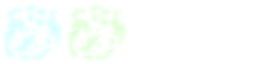
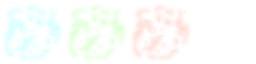
ADD Fire attack level 3

diff --git a/src/EffectZoneEntity.cpp b/src/EffectZoneEntity.cpp
@@ -1,5 +1,6 @@
 #include "EffectZoneEntity.h"
 #include "BaseCreatureEntity.h"
+#include "ExplosionEntity.h"
 #include "sfml_game/ImageManager.h"
 #include "sfml_game/SoundManager.h"
 #include "sfml_game/SpriteEntity.h"
@@ -9,7 +10,7 @@
 #include <iostream>
 
 EffectZoneEntity::EffectZoneEntity(float x, float y, bool fromPlayer, float duration,
-                     EffectZoneTypeEnum effectZoneType)
+                     EffectZoneTypeEnum effectZoneType, int damage)
   : SpriteEntity(ImageManager::getInstance().getImage(IMAGE_EFFECT_ZONE), x, y, 64, 64)
 {
   type = ENTITY_EFFECT_ZONE;
@@ -17,11 +18,13 @@ EffectZoneEntity::EffectZoneEntity(float x, float y, bool fromPlayer, float dura
   imagesProLine = 6;
   lifetime = duration;
   this->fromPlayer = fromPlayer;
+  this->damage = damage;
 
   switch (effectZoneType)
   {
     case EffectZoneTypeIce: frame = 0; break;
     case EffectZoneTypePoison: frame = 1; break;
+    case EffectZoneTypeFire: frame = 2; break;
   }
   z = 1500; // for flying zones
 
@@ -68,6 +71,16 @@ void EffectZoneEntity::collidePoison(BaseCreatureEntity* entity)
   }
 }
 
+void EffectZoneEntity::explode()
+{
+  if (damage > 0)
+  {
+    new ExplosionEntity(x, y, ExplosionTypeStandard, damage, EnemyTypeNone, false);
+    damage = 0;
+    lifetime = age + 1.0f;
+  }
+}
+
 void EffectZoneEntity::testCollisions()
 {
   EntityManager::EntityList* entityList =EntityManager::getInstance().getList();
@@ -91,10 +104,10 @@ void EffectZoneEntity::testCollisions()
         entity->calculateBB();
 
         sf::IntRect bb;
-        bb.left = x - 22;
-        bb.width = 44;
-        bb.top = y - 22;
-        bb.height = 44;
+        bb.left = x - 26;
+        bb.width = 52;
+        bb.top = y - 26;
+        bb.height = 52;
 
         if (bb.intersects(entity->getBoundingBox()))
         {
@@ -102,6 +115,7 @@ void EffectZoneEntity::testCollisions()
           {
             case EffectZoneTypeIce: collideIce(entity); break;
             case EffectZoneTypePoison: collidePoison(entity); break;
+            case EffectZoneTypeFire: explode(); break;
           }
         }
       }

diff --git a/src/BoltEntity.cpp b/src/BoltEntity.cpp
@@ -325,7 +325,6 @@ void BoltEntity::onDying()
       if (!game().existsEffectZone())
         new EffectZoneEntity(x, y, true, 5.0f, EffectZoneTypePoison);
     }
-
   }
 }
 
@@ -380,6 +379,15 @@ void BoltEntity::split(int direction)
   SoundManager::getInstance().playSound(SOUND_STONE_HIT);
 }
 
+void BoltEntity::collideWall()
+{
+  if (boltType == ShotTypeFire && level == 2)
+  {
+    if (!game().existsEffectZone())
+      new EffectZoneEntity(x, y, true, 5.0f, EffectZoneTypeFire, game().getPlayer()->getDamage());
+  }
+}
+
 void BoltEntity::collideMapRight()
 {
   if (boltType == ShotTypeLightning)
@@ -398,6 +406,7 @@ void BoltEntity::collideMapRight()
   {
     velocity.x = 0.0f;
     onDying();
+    collideWall();
 
     SoundManager::getInstance().playSound(SOUND_WALL_IMPACT);
     for (int i=0; i<5; i++)
@@ -427,6 +436,7 @@ void BoltEntity::collideMapLeft()
   {
     velocity.x = 0.0f;
     onDying();
+    collideWall();
 
     SoundManager::getInstance().playSound(SOUND_WALL_IMPACT);
     for (int i=0; i<5; i++)
@@ -456,6 +466,7 @@ void BoltEntity::collideMapTop()
   {
     velocity.y = 0.0f;
     onDying();
+    collideWall();
 
     SoundManager::getInstance().playSound(SOUND_WALL_IMPACT);
     for (int i=0; i<5; i++)
@@ -485,6 +496,7 @@ void BoltEntity::collideMapBottom()
   {
     velocity.y = 0.0f;
     onDying();
+    collideWall();
 
     SoundManager::getInstance().playSound(SOUND_WALL_IMPACT);
     for (int i=0; i<5; i++)

diff --git a/src/EffectZoneEntity.h b/src/EffectZoneEntity.h
@@ -4,13 +4,18 @@
 #include "sfml_game/SpriteEntity.h"
 #include "BaseCreatureEntity.h"
 
-enum EffectZoneTypeEnum { EffectZoneTypeIce, EffectZoneTypePoison };
+enum EffectZoneTypeEnum
+{
+  EffectZoneTypeIce,
+  EffectZoneTypePoison,
+  EffectZoneTypeFire
+};
 
 class EffectZoneEntity : public SpriteEntity
 {
   public:
     EffectZoneEntity(float x, float y, bool fromPlayer, float duration,
-                     EffectZoneTypeEnum effectZoneType);
+                     EffectZoneTypeEnum effectZoneType, int damage = 0);
 
     virtual void animate(float delay);
     virtual void render(sf::RenderTarget* app);
@@ -28,6 +33,7 @@ class EffectZoneEntity : public SpriteEntity
 
     void collideIce(BaseCreatureEntity* entity);
     void collidePoison(BaseCreatureEntity* entity);
+    void explode();
 };
 
 #endif // EFFECT_ZONE_ENTITY_H

diff --git a/src/BoltEntity.h b/src/BoltEntity.h
@@ -44,6 +44,7 @@ class BoltEntity : public CollidingSpriteEntity
     virtual void collideMapTop();
     virtual void collideMapBottom();
     virtual bool collideWithMap(int direction);
+    virtual void collideWall();
 
     virtual void onDying();
     virtual void stuck();
